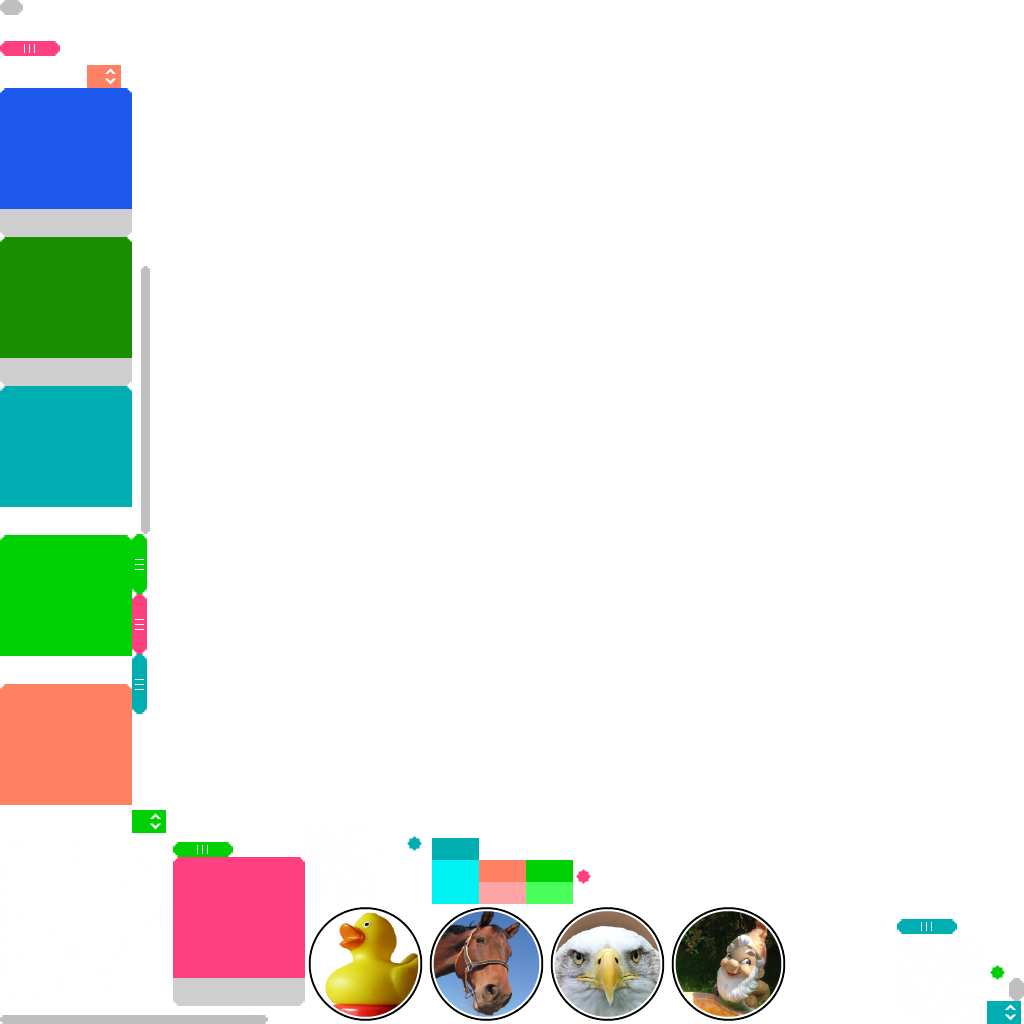
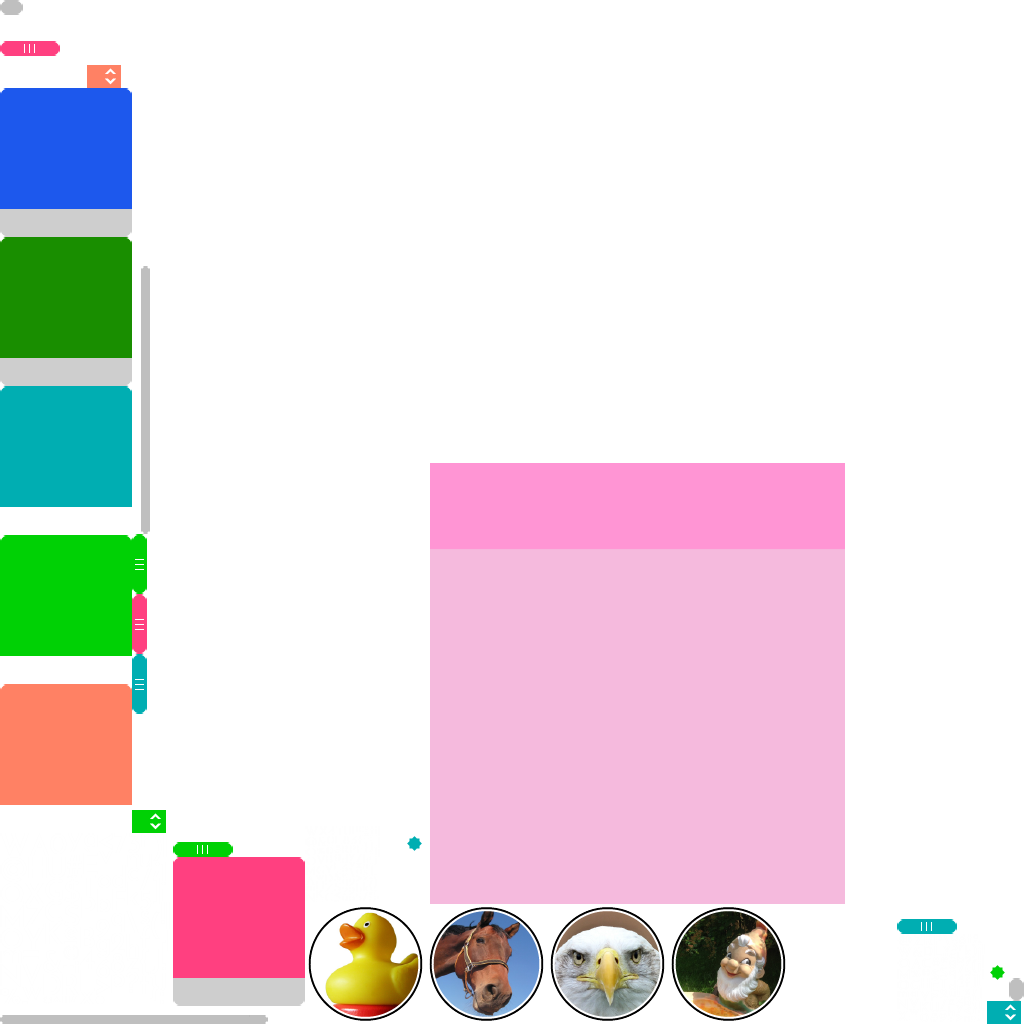
modified skin and settings menu

Changed region(s): [[0.4062, 0.4375, 0.8438, 0.9062]]

diff --git a/core/src/prog/sumo/states/PlayState.java b/core/src/prog/sumo/states/PlayState.java
@@ -20,10 +20,12 @@ import com.badlogic.gdx.scenes.scene2d.ui.Skin;
 import com.badlogic.gdx.scenes.scene2d.ui.Table;
 import com.badlogic.gdx.scenes.scene2d.ui.TextButton;
 import com.badlogic.gdx.scenes.scene2d.ui.TextField;
+import com.badlogic.gdx.scenes.scene2d.ui.Value;
 import com.badlogic.gdx.scenes.scene2d.ui.Window;
 import com.badlogic.gdx.scenes.scene2d.utils.ChangeListener;
 import com.badlogic.gdx.scenes.scene2d.utils.Drawable;
 import com.badlogic.gdx.scenes.scene2d.utils.TextureRegionDrawable;
+import com.badlogic.gdx.utils.Align;
 
 public class PlayState extends State {
     Texture settingsWheel;
@@ -81,9 +83,10 @@ public class PlayState extends State {
         tutorial.add(xTutorial);
 
 
-        setPop = new Window("Settings", uiSkin, "default");
-        setPop.scaleBy(3f);
-        setPop.setPosition(Gdx.graphics.getWidth()/2-setPop.getWidth(), Gdx.graphics.getHeight() / 2);
+        setPop = new Window("Settings", uiSkin, "c2");
+        setPop.scaleBy(2);
+
+        setPop.setPosition(Gdx.graphics.getWidth()/2-setPop.getWidth()*3/2, Gdx.graphics.getHeight() / 2);
 
 
         xMenu = new TextButton("Back to game", uiSkin, "small-1");
@@ -91,7 +94,9 @@ public class PlayState extends State {
         soundBox = new CheckBox("Sound", uiSkin, "c3");
 
         Table table = new Table();
-        table.add(xMenu).width(100);
+        table.top()
+                .padTop(Value.percentWidth(.015f, table));
+        table.add(xMenu).align(Align.center).width(100).padBottom(Value.percentWidth(.015f, table));
         table.row();
         table.add(tutButton).width(100);
         table.row();
@@ -100,7 +105,7 @@ public class PlayState extends State {
         //setPop.add(xMenu);
         //setPop.add(tutButton);
         setPop.add(table);
-        setPop.pack();
+        //setPop.pack();
 
 
         settingsB.addListener(new ChangeListener() {
